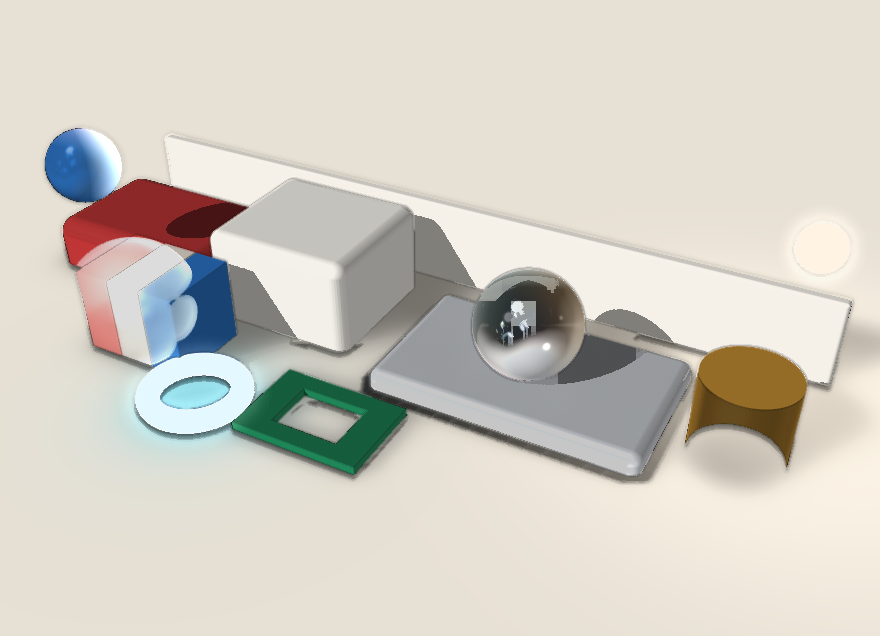
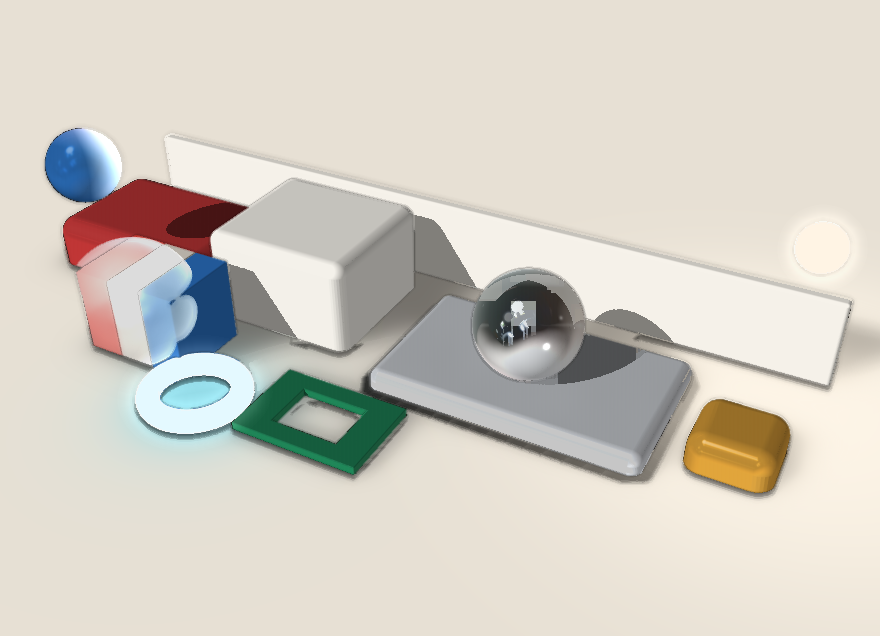
QUALITY-6 §9.2: still gold rounded box; facetStripe max 8.
Replace the extruded-circle gold (hollow-arch dual-blind miss) with a
rounded box and raise stillGoldFacetMax for the box mid-band.

Changed region(s): [[0.767, 0.5377, 0.9818, 0.8066], [0.6136, 0.4182, 0.675, 0.5377]]

diff --git a/scripts/gallery-3d.ts b/scripts/gallery-3d.ts
@@ -320,8 +320,9 @@ function buildPlates(): { sheet: string; title: string; cols: number; cells: Pla
       height: BENCH_H + 96,
       caption: '贴地接触 · 悬空软影 · 缝里的遮挡 · 铬球 · 玻璃和色条 · 洞 · 霓虹 · 灯',
       // Still-only: frost glass 0.24 + warm stripe wash bars (global glass wash
-      // collapsed materials 0.06/0.72 under dual-blind). Gold stays the stock
-      // extruded circle — foot/box/sphere all blew facetStripe >3.
+      // collapsed materials 0.06/0.72 under dual-blind). Gold is a rounded
+      // box — extruded circles scoop a hollow-arch silhouette under dual-blind
+      // (§9.2); facetStripe max is 8 for the box mid-band (cylinder wall was ≤3).
       body: place(
         bench()
           .replace(
@@ -335,6 +336,10 @@ function buildPlates(): { sheet: string; title: string; cols: number; cells: Pla
           .replace(
             '<rect id="stripe-white" x="246" y="200" width="36" height="78" depth="160" fill="#f7f4ee" />',
             '<rect id="stripe-white" x="246" y="200" width="36" height="78" depth="160" fill="#e2dbd0" />',
+          )
+          .replace(
+            '<circle id="gold" cx="780" cy="150" r="40" depth="160" fill="#e0a33a" material="plastic 0.22" />',
+            '<rect id="gold" x="744" y="114" width="72" height="72" depth="64" rx="16" fill="#e0a33a" material="plastic 0.35" />',
           ),
         0,
         52,
